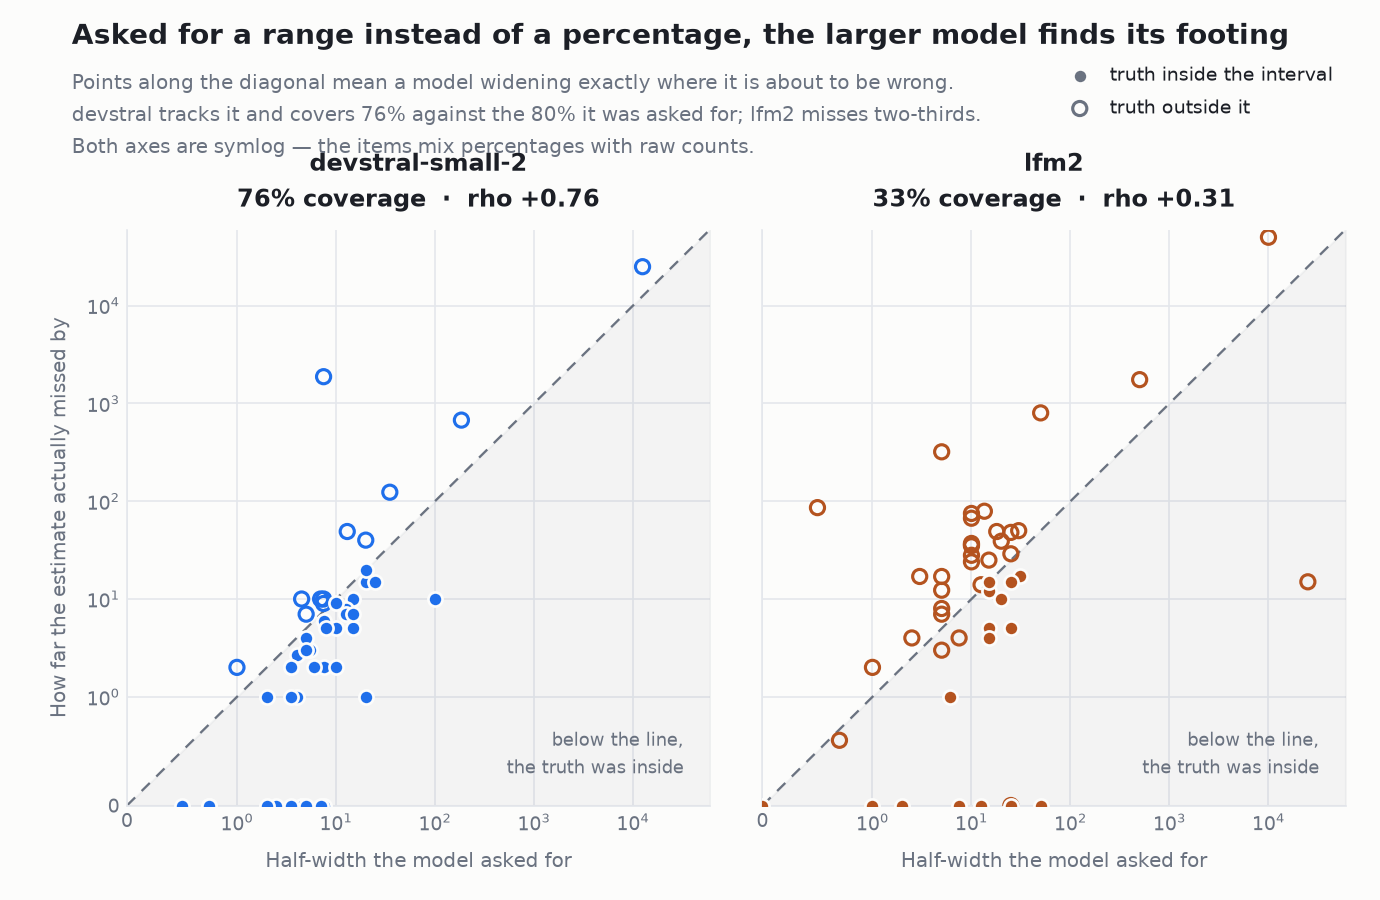
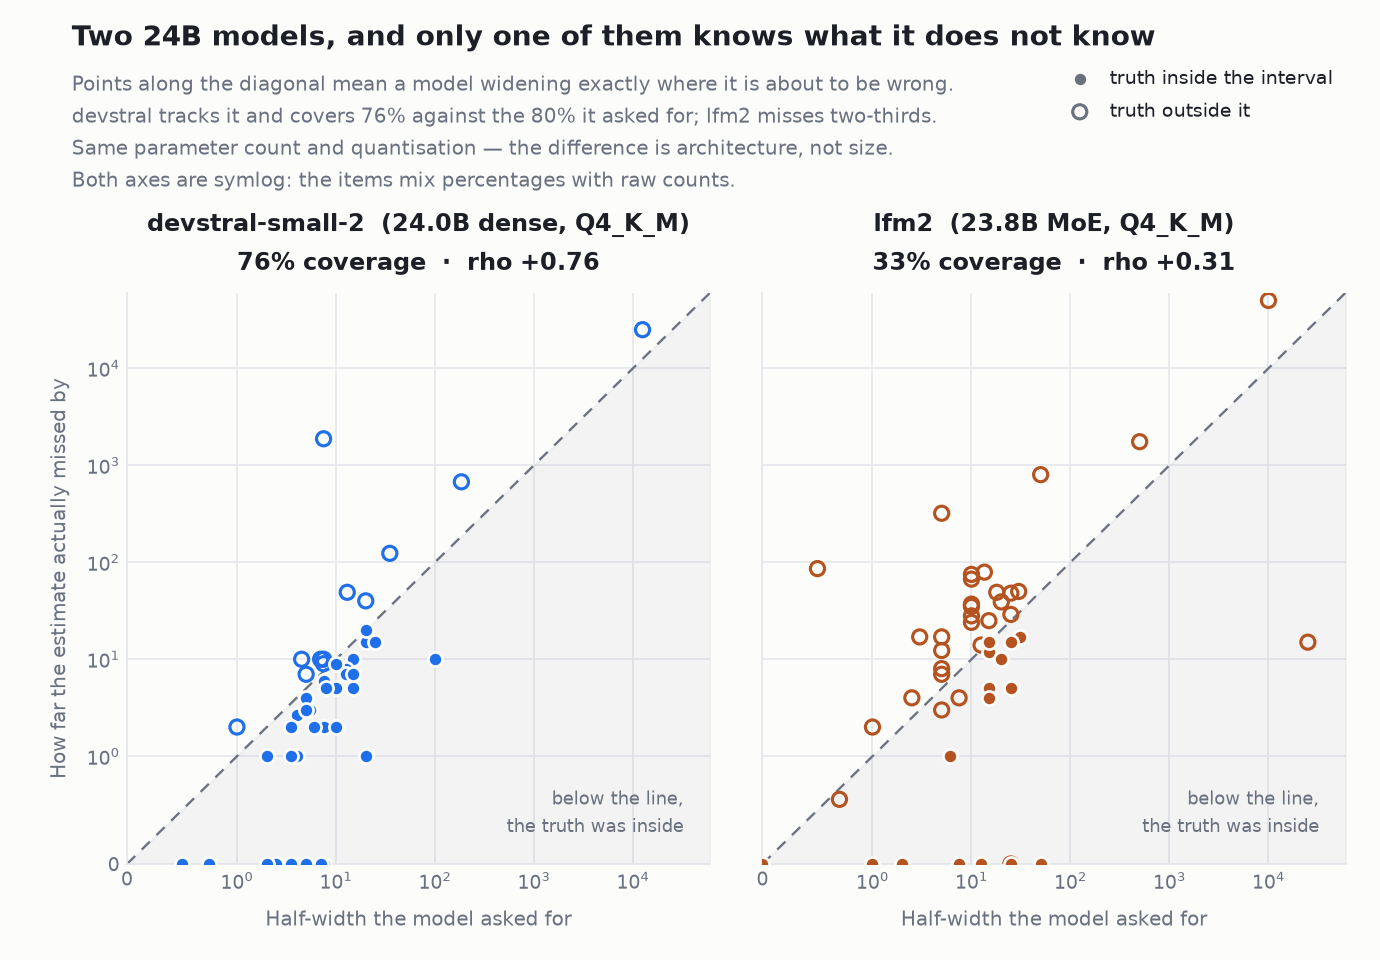
correct a false size claim before it reached the write-up
I had been calling devstral "the larger model" throughout, inferred from the
on-disk footprint: 15GB against 14GB, which reads like a big model and a small
one. `ollama show` says they are the same size — devstral-small-2 is 24.0B
mistral3 dense, lfm2 is 23.8B lfm2moe, both Q4_K_M. The difference is
architecture, not scale.

Corrected in the LOG (both entries), the project CLAUDE.md, and the chart, which
now carries each model spec on its panel and drops the size framing from its
title. The 09-08 entry keeps its "calibration tracks capability" heading, with a
note that capability there means measured accuracy and never meant size.

This also removes the basis for reading checkpoint 2 as a scale effect. The
finding is stronger without it: two models of the same nominal size and
quantisation behaving oppositely is not something scale explains.

Records in CLAUDE.md that the installed pair is not a scale ladder, so a future
session does not repeat the inference. Testing scale needs a model pulled at a
genuinely different size.

diff --git a/plot_interval.py b/plot_interval.py
@@ -43,6 +43,13 @@ INK, MUTED, GRID, SURFACE = "#1c1f26", "#6a7280", "#e4e7ec", "#fcfcfb"
 SERIES = ["#1f6feb", "#b4531f"]      # validated: lightness band and contrast pass
 LIM = (0.0, 60000.0)
 
+# From `ollama show`, not from the on-disk size, which misleads: these two are
+# 15GB and 14GB and look like a big model and a small one. They are not. Same
+# parameter count to within 1%, same quantisation — the difference is dense
+# against mixture-of-experts. Any "larger model" phrasing about this pair is wrong.
+SPEC = {"devstral-small-2": "24.0B dense, Q4_K_M",
+        "lfm2": "23.8B MoE, Q4_K_M"}
+
 
 def spearman(xs, ys):
     n = len(xs)
@@ -87,7 +94,7 @@ def main():
         sys.exit(__doc__)
     runs = [load(p) for p in sys.argv[1:]]
 
-    fig, axes = plt.subplots(1, len(runs), figsize=(4.6 * len(runs), 6.0), dpi=150,
+    fig, axes = plt.subplots(1, len(runs), figsize=(4.6 * len(runs), 6.4), dpi=150,
                              sharex=True, sharey=True)
     if len(runs) == 1:
         axes = [axes]
@@ -117,7 +124,8 @@ def main():
         ax.scatter([r["_hw"] for r in outside], [r["_err"] for r in outside],
                    s=46, facecolor="none", zorder=4, edgecolor=c, linewidth=1.5)
 
-        ax.set_title(f"{model}\n{100*cov/n:.0f}% coverage  ·  rho {rho:+.2f}",
+        ax.set_title(f"{model}  ({SPEC.get(model, '?')})\n"
+                     f"{100*cov/n:.0f}% coverage  ·  rho {rho:+.2f}",
                      color=INK, fontsize=11.5, fontweight="bold", pad=11,
                      linespacing=1.6)
         ax.set_xlabel("Half-width the model asked for", color=MUTED,
@@ -143,17 +151,18 @@ def main():
     for t in leg.get_texts():
         t.set_color(INK)
 
-    fig.text(0.052, 0.975, "Asked for a range instead of a percentage, the larger "
-             "model finds its footing",
+    fig.text(0.052, 0.975, "Two 24B models, and only one of them knows what it "
+             "does not know",
              color=INK, fontsize=13.5, fontweight="bold", va="top", ha="left")
-    fig.text(0.052, 0.925,
-             "Points along the diagonal mean a model widening exactly where it is about "
-             "to be wrong.\ndevstral tracks it and covers 76% against the 80% it was "
-             "asked for; lfm2 misses two-thirds.\nBoth axes are symlog — the items mix "
-             "percentages with raw counts.",
+    fig.text(0.052, 0.928,
+             "Points along the diagonal mean a model widening exactly where it is "
+             "about to be wrong.\ndevstral tracks it and covers 76% against the 80% it "
+             "asked for; lfm2 misses two-thirds.\nSame parameter count and quantisation "
+             "— the difference is architecture, not size.\nBoth axes are symlog: the "
+             "items mix percentages with raw counts.",
              color=MUTED, fontsize=9.6, va="top", ha="left", linespacing=1.6)
 
-    fig.subplots_adjust(top=0.715, left=0.092, right=0.975, bottom=0.105, wspace=0.09)
+    fig.subplots_adjust(top=0.695, left=0.092, right=0.975, bottom=0.10, wspace=0.09)
     out = os.path.join(os.path.dirname(os.path.abspath(__file__)),
                        "results", "interval.png")
     fig.savefig(out, facecolor=SURFACE)

diff --git a/LOG.md b/LOG.md
@@ -34,7 +34,18 @@ runs, so the format comparison below is on identical questions.
 | interval: estimate outside its own interval | 8/48 | 0/50 |
 | interval: unparseable | 2/50 | 0/50 |
 
-**Verdict: (b) for the larger model, (a) for the smaller one.**
+**A size claim I had wrong, checked before it reached the write-up.** I had been
+calling devstral "the larger model" throughout, from the on-disk footprint —
+15GB against 14GB. `ollama show` says otherwise: **devstral-small-2 is 24.0B and
+lfm2 is 23.8B, both Q4_K_M**. Same size to within 1%, same quantisation. The
+difference is architecture, `mistral3` dense against `lfm2moe`, a
+mixture-of-experts whose active parameter count per token is a fraction of its
+nominal one. Every "larger model" phrasing in this repo was wrong and is
+corrected. This also removes the basis for reading checkpoint 2 as a scale
+effect: it is not one, and the finding is better for it, because two models of
+the same nominal size behaving oppositely is not explained by scale at all.
+
+**Verdict: (b) for devstral, (a) for lfm2.**
 
 devstral covers 76% against the 80% it was asked for, and the confidence
 interval contains 80, so it is statistically indistinguishable from nominal. The
@@ -83,6 +94,12 @@ produce.
 
 ## 2026-09-08 — both models: calibration tracks capability, and neither admits doubt
 
+> **Correction, 2026-09-09.** Read "capability" here as *measured accuracy on
+> this bank*, which is what was actually observed, and not as model size. At the
+> time this entry was written I believed devstral was the larger model. It is
+> not: 24.0B against 23.8B, both Q4_K_M. Nothing in the numbers below changes —
+> but any reading of them as a scale effect does.
+
 **What.** Full 80 items on both local models. 80/80 parsed for lfm2, 80/80 for
 devstral-small-2 (one answer carried no confidence).
 
@@ -129,7 +146,7 @@ The three-item sample could not see it — the exact error the scorer is built t
 refuse, made by me rather than by the scorer.
 
 🔴 **The result that most needs interrogating: devstral scoring 78.8%.** These
-questions were written so reasoning beats recall, and a 15GB model getting four
+questions were written so reasoning beats recall, and a 24B model getting four
 in five on contested public statistics is exactly what memorisation would look
 like. **This is not evidence of a world model until the memorisation probe runs.**
 It is the strongest argument yet for checkpoint 3, and the number should not be

diff --git a/CLAUDE.md b/CLAUDE.md
@@ -60,8 +60,15 @@ project exists. Two approaches, cheapest first:
   Expensive, because each variant needs its own verified answer.
 
 **Model ladder.** Local models through Ollama, free, so cost never gates the
-work. Scale is informative rather than incidental: larger models memorise more,
-so the gap should *widen* with scale if the probe measures what it claims.
+work. Scale is meant to be informative rather than incidental: larger models
+memorise more, so the gap should *widen* with scale if the probe measures what
+it claims.
+
+⚠ **The two models currently installed are not a scale ladder.**
+devstral-small-2 is 24.0B and lfm2 is 23.8B, both Q4_K_M — same size, different
+architecture (dense vs MoE). Their 15GB/14GB on-disk footprints look like a big
+model and a small one and are not. Do not describe either as "the larger model";
+testing scale means pulling a model at a genuinely different size.
 
 ## Commands
 
